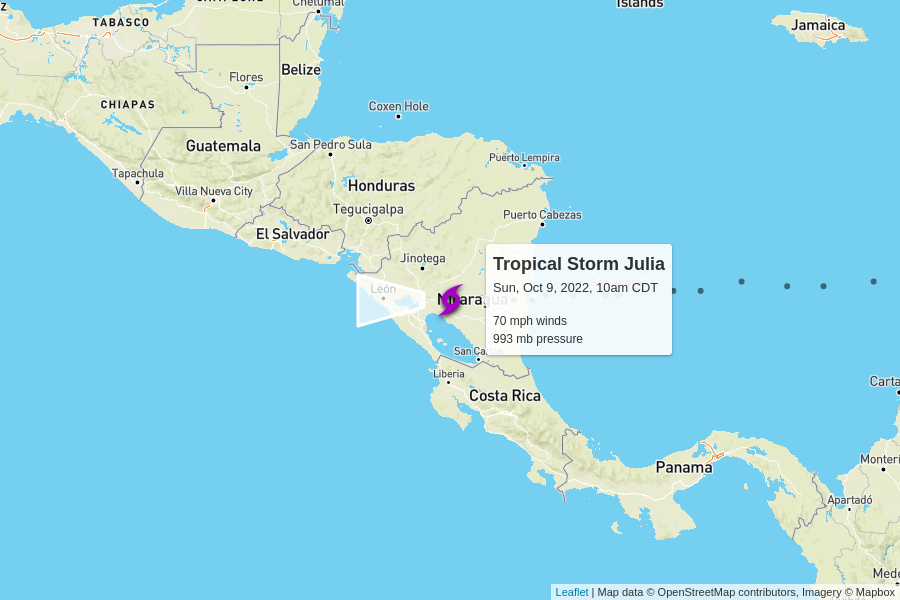
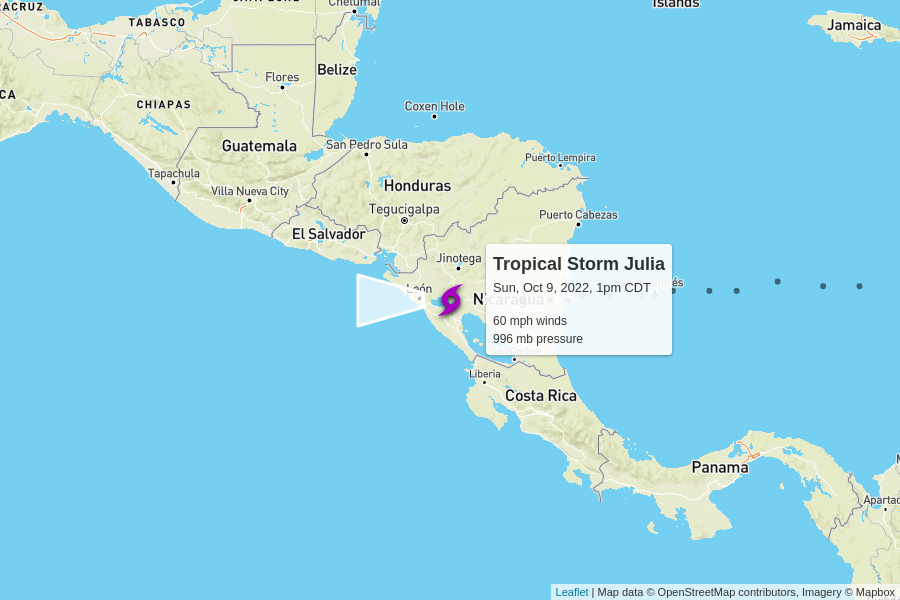
automatic update

diff --git a/docs/index.html b/docs/index.html
@@ -100,7 +100,7 @@
         <td colspan="6" class="storm category-0" >
           <h2>
             Tropical Storm Julia
-            <p class="updated">last updated <span data-time>2022-10-09T15:00:00.000Z</span></p>
+            <p class="updated">last updated <span data-time>2022-10-09T18:00:00.000Z</span></p>
           </h2>
         </td>
       </tr>
@@ -115,10 +115,10 @@
       </tr>
       <tr>
         <td class="spacer"></td>
-        <td>70 mph</td>
-        <td>993 mb</td>
+        <td>60 mph</td>
+        <td>996 mb</td>
         <td>
-          15 mph to the west
+          16 mph to the west
           <br/>
           <span style="display: inline-block; font-size: 1.5em; transform: rotate(270deg);">↑</span>
         </td>
